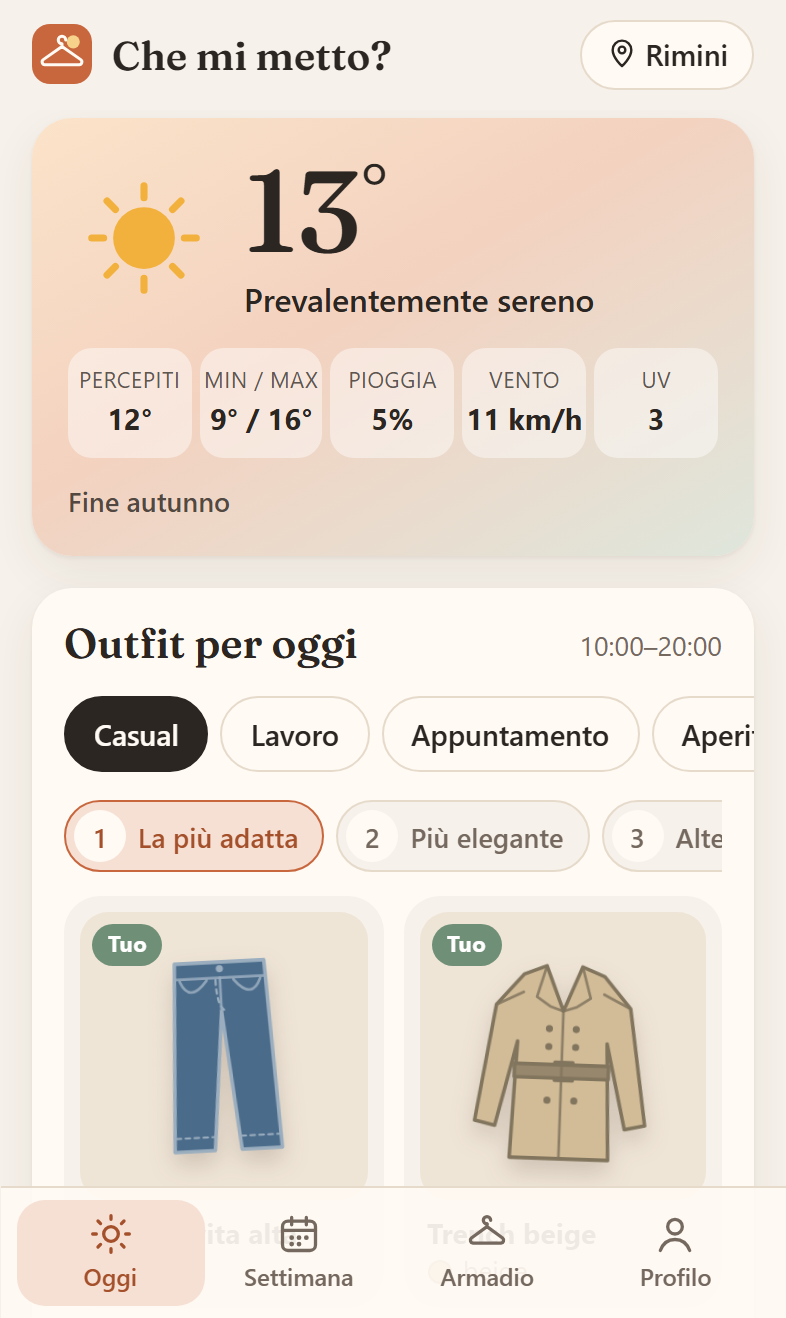
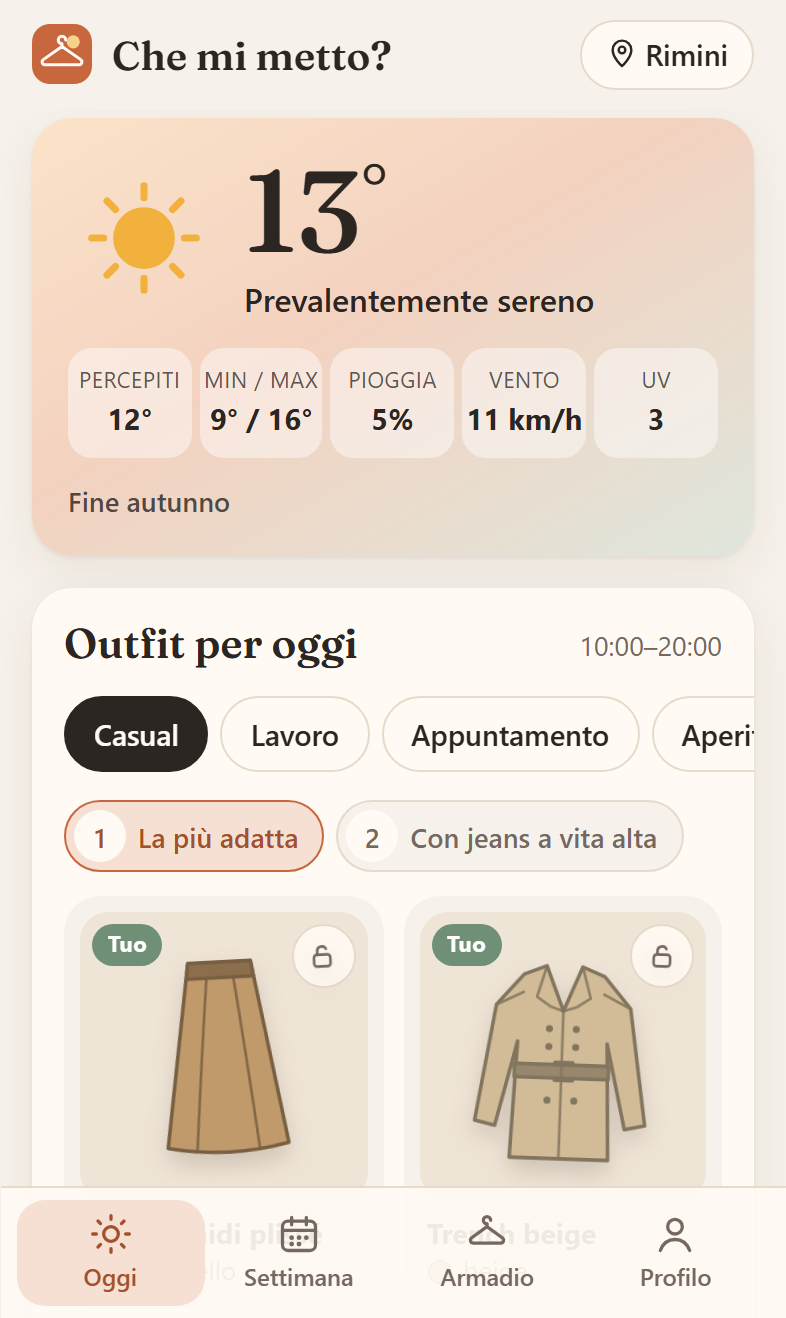
Documentazione: app commerciali studiate, nuove funzioni e anteprime

diff --git a/e2e/screenshot.spec.ts b/e2e/screenshot.spec.ts
@@ -99,6 +99,13 @@ test('anteprime per il README', async ({ page }) => {
   await mostraDallAlto(page, '.idee');
   await foto(page, '10-idee-generiche');
 
+  // Lucchetto: fisso la parte di sotto e sfoglio altre idee.
+  const sotto = page.getByRole('tabpanel').first().locator('[data-slot="sotto"], [data-slot="intero"]').first();
+  await sotto.getByRole('button', { name: /Tieni fisso/ }).click();
+  await page.getByRole('button', { name: 'Altre idee' }).click();
+  await mostraDallAlto(page, '.idee');
+  await foto(page, '11-lucchetto');
+
   await caricaBackup(page);
   // Il banner per installare su iPhone lo nascondiamo nelle anteprime.
   await page.evaluate(() => localStorage.setItem('banner-installa-chiuso', '1'));
@@ -125,10 +132,27 @@ test('anteprime per il README', async ({ page }) => {
   await foto(page, '07-nuovo-capo');
   await page.keyboard.press('Escape');
 
+  await page.getByRole('button', { name: 'Aggiunta rapida' }).click();
+  await page.getByRole('dialog', { name: 'Aggiunta rapida' }).getByRole('button', { name: 'verde salvia' }).click();
+  await foto(page, '12-aggiunta-rapida');
+  await page.keyboard.press('Escape');
+
   await page.emulateMedia({ colorScheme: 'dark' });
   await page.getByRole('link', { name: 'Oggi' }).click();
   await page.getByRole('button', { name: 'Elegante', exact: true }).click();
   await foto(page, '08-tema-scuro');
+});
+
+test('idee per uomo', async ({ page }) => {
+  await preparaPagina(page);
+  await page.goto('./');
+  await page.evaluate(() => localStorage.setItem('banner-installa-chiuso', '1'));
+  await primoAvvio(page, 'Uomo');
+  await mostraDallAlto(page, '.idee');
+  await foto(page, '13-uomo');
+  await page.getByRole('button', { name: 'Elegante', exact: true }).click();
+  await mostraDallAlto(page, '.idee');
+  await foto(page, '14-uomo-elegante');
 });
 
 test('galleria delle sagome', async ({ page }) => {

diff --git a/README.md b/README.md
@@ -44,15 +44,24 @@ iPhone, senza passare dall'App Store.
   lista di cosa mettere in borsa.
 - 🧥 **Armadio digitale**: carichi i capi uno per uno, con una foto o scegliendo solo tipo e colore. Il colore viene
   riconosciuto dalla foto. I consigli usano i tuoi vestiti, abbinano i colori e segnalano cosa manca.
-- 🎨 **Sagome disegnate a mano**: senza foto ogni capo è una sagoma SVG con il suo colore e, se vuoi, una fantasia
-  (righe, quadri, pois, fiori) con un secondo colore. Nelle idee generiche l'app aggiunge da sola un capo fantasia
-  adatto a stagione e occasione: fiori in primavera, quadri in autunno, niente fantasie in palestra.
-- 🔄 **Tre idee diverse da sfogliare** per ogni giornata e ogni impegno ("La più adatta", "Più elegante", "Con fantasia"…),
-  più il pulsante **"Altre idee"**. Le idee vengono scelte perché si somiglino il meno possibile.
+- 🎨 **Sagome disegnate a mano, diverse per donna e uomo**: t-shirt aderente od oversize, blazer sciancrato, cappotto a
+  vestaglia, jeans skinny o a zampa, gonna a tubino o a ruota, vestito a sottoveste… Ogni capo ha il suo colore e, se vuoi,
+  una fantasia (righe, quadri, pois, fiori) con un secondo colore. Nelle idee generiche l'app aggiunge da sola un capo
+  fantasia adatto a stagione e occasione: fiori in primavera, quadri in autunno, niente fantasie in palestra.
+- 🔄 **Tre idee diverse da sfogliare** per ogni giornata e ogni impegno, con un titolo che dice cosa cambia ("Con jeans a
+  zampa", "Più elegante"…), e **"Altre idee"** per continuare. Le proposte **cambiano da un giorno all'altro** e per la
+  donna includono sempre anche gonne, vestiti, top e ballerine.
+- 🔒 **Lucchetto**: fissi un capo che ti piace (o che vuoi mettere per forza) e sfogli le idee costruite intorno a lui.
+  Dall'armadio, **"Abbinalo"** apre gli outfit di oggi già con quel capo.
+- ⚡ **Aggiunta rapida**: scegli un colore e tocchi le sagome dei capi che hai: l'armadio è pronto in due minuti, senza
+  foto. Per ogni capo puoi scegliere anche il **modello** (es. jeans skinny o a zampa).
+- 🌡 **"Ieri com'era?"**: la mattina dopo ti chiede se avevi freddo o caldo e corregge da sola, di mezzo grado alla
+  volta, la temperatura su cui ragiona.
 - 👕 **Oltre 60 tipi di capi** per uomo e donna, dal gilet al parka, dalla tuta intera ai pantaloni palazzo, ognuno con un
   livello di **formalità**: nello stesso outfit non finiscono mai capi che stonano.
 - ♥ **Preferiti, "da lavare" e "Lo metto oggi"**: i preferiti escono più spesso, i capi in lavatrice no, e quello che hai
-  messo oggi non te lo ripropone domani. **Sensibilità al freddo** personale (freddoloso / nella media / caloroso).
+  messo oggi non te lo ripropone domani. **Statistiche**: quanto dell'armadio usi, i capi più messi e quelli da
+  riscoprire. **Sensibilità al freddo** personale (freddoloso / nella media / caloroso).
 - 📴 **Funziona offline** con le ultime previsioni salvate, **tema chiaro e scuro**, interfaccia pensata per il pollice.
 - 🔒 **Privacy**: nessun account e nessun server. Profilo, foto e impegni restano sul telefono; backup e ripristino con un
   file.
@@ -84,17 +93,27 @@ test.
    scelti, formalità coerente, preferito, non messo ieri; i capi da lavare sono esclusi. Senza armadio si usa una **palette
    di stagione**, con al massimo un capo **fantasia** per outfit e un secondo colore che stacca dal fondo.
 5. Il motore genera nove varianti e ne tiene **tre il più possibile diverse** (somiglianza di Jaccard tra capi e colori).
+   Il punto di partenza dipende dal giorno, quindi le proposte cambiano ogni giorno ma restano stabili nella giornata. I capi
+   fissati con il **lucchetto** restano in tutte le varianti; la **correzione personale** imparata da "Ieri com'era?"
+   sposta la temperatura su cui ragiona.
 6. Ogni consiglio arriva con il **perché**: *"Percepiti 8°: fa freddo. Pioggia probabile (80%): capi che riparano, scarpe
    chiuse e ombrello."*
 
-Prima di scriverlo ho studiato il codice di otto app open source di outfit e armadio digitale: cosa ho imparato da ciascuna,
-con le licenze, è in [docs/ISPIRAZIONI.md](docs/ISPIRAZIONI.md).
+Prima di scriverlo ho studiato il codice di otto app open source di outfit e armadio digitale e il funzionamento delle app
+commerciali più usate (Whering, Acloset, Stylebook, Cladwell, app meteo-outfit): cosa ho imparato da ciascuna, con le
+licenze, è in [docs/ISPIRAZIONI.md](docs/ISPIRAZIONI.md).
 
 <p align="center">
-  <img src="docs/screenshots/10-idee-generiche.png" width="24%" alt="Idea di outfit senza armadio, con un capo a fantasia" />
+  <img src="docs/screenshots/10-idee-generiche.png" width="24%" alt="Idea di outfit da donna senza armadio" />
+  <img src="docs/screenshots/11-lucchetto.png" width="24%" alt="Un capo fissato con il lucchetto" />
+  <img src="docs/screenshots/13-uomo.png" width="24%" alt="Idea di outfit da uomo" />
+  <img src="docs/screenshots/12-aggiunta-rapida.png" width="24%" alt="Aggiunta rapida dei capi" />
+</p>
+<p align="center">
   <img src="docs/screenshots/03-outfit-armadio.png" width="24%" alt="Outfit con capi dell'armadio e capi mancanti" />
+  <img src="docs/screenshots/14-uomo-elegante.png" width="24%" alt="Uscita elegante da uomo" />
   <img src="docs/screenshots/04-settimana.png" width="24%" alt="Previsioni della settimana" />
-  <img src="docs/screenshots/09-sagome.png" width="24%" alt="Tutte le sagome dei capi" />
+  <img src="docs/screenshots/09-sagome.png" width="24%" alt="Tutte le sagome dei capi, da donna e da uomo" />
 </p>
 
 ## Tecnologie
@@ -189,6 +208,9 @@ the day** (work, date, cocktails, formal event, gym) and, optionally, **your own
 - Each event gets an outfit computed on the forecast **for that hour**; the gym gets a "pack in your bag" list.
 - **Three swipeable, deliberately different ideas** per day and per event: nine variants are generated and the three with
   the lowest Jaccard similarity are kept. Each of 60+ garment types has a 1–5 **formality** level to keep outfits coherent.
+- Gender-specific hand-drawn silhouettes with several models per garment, daily-changing suggestions, a **lock** to keep
+  a piece fixed while browsing ideas, "style this piece" from the wardrobe, a quick-add grid, and a daily "how was
+  yesterday?" check that self-calibrates the temperature offset.
 - Wardrobe extras inspired by open-source projects (see [docs/ISPIRAZIONI.md](docs/ISPIRAZIONI.md)): favourites, "in the
   laundry" items excluded, and an "I'm wearing it today" button that tracks wear count and avoids repeats.
 - Privacy by design: no account, no server, everything stays in IndexedDB on the phone, with JSON backup/restore.

diff --git a/docs/ISPIRAZIONI.md b/docs/ISPIRAZIONI.md
@@ -16,6 +16,22 @@ spunti di design.
 | [googlarz/fashion-skill](https://github.com/googlarz/fashion-skill) | CC BY 4.0 | Regole di stile scritte per un assistente | Evitare di riproporre lo stesso outfit a breve distanza |
 | [Lazztech/Libre-Closet](https://github.com/Lazztech/Libre-Closet) | AGPL-3.0 | Armadio digitale PWA | Idee di interfaccia: più colori per capo, stato di lavaggio, archivio |
 
+## Le app commerciali
+
+Il codice di queste app non è pubblico, quindi ho studiato come funzionano dall'esterno: siti, pagine di aiuto, schede degli
+store e recensioni.
+
+| App | Come lavora | Cosa ne ho preso |
+|---|---|---|
+| [Whering](https://whering.co.uk/faq/styling-and-outfits) | "Dress Me": rimescola gli outfit e permette di **fissare un capo**; statistiche e costo per utilizzo | Il **lucchetto** e le idee da sfogliare |
+| [Acloset](https://www.acloset.app/) | Consigli da meteo e agenda; **scegli un capo e completa lui il resto** | **"Abbinalo"** dalla scheda del capo |
+| [Stylebook](https://stylebookapp.com/features.html) | Stato del capo (pulito, da lavare, prestato), statistiche "mai usati" e "più usati" | Capi **da lavare** e **statistiche** |
+| [Cladwell](https://apps.apple.com/us/app/cladwell/id1140550878) | Armadio creato scegliendo da **immagini già pronte**, una nota sul perché di ogni outfit | **Aggiunta rapida** con le sagome |
+| [Weather Outfit](https://apps.apple.com/app/id6769089874), WTWT | Dopo ogni giornata un tocco "freddo / giusto / caldo" che regola le proposte | **"Ieri com'era?"** |
+
+Il difetto più citato nelle recensioni di queste app è la **ripetitività** (e capi sbagliati per il meteo): per questo le
+idee cambiano ogni giorno, si scelgono diverse tra loro e il motore ha soglie di temperatura verificate dai test.
+
 ## Cosa è entrato nell'app
 
 - **Soglie riviste** sulla temperatura percepita (corretta di ±3° per chi è freddoloso o caloroso):
@@ -30,6 +46,10 @@ spunti di design.
   gli usi e fa variare le proposte dei due giorni seguenti.
 - **Catalogo più ricco**: gilet, parka, giacca di pelle, pantaloni cargo e di velluto, pantaloni palazzo, tuta intera, sandali
   col tacco, cravatta, cappello di paglia.
+
+- **Sagome diverse per donna e uomo** con più modelli per capo, così le idee non hanno tutte la stessa faccia.
+- **Lucchetto**, **"Abbinalo"**, **aggiunta rapida**, **"Ieri com'era?"** e **statistiche** dalle app commerciali qui sopra,
+  rifatti in versione gratuita e tutta sul telefono.
 
 ## Cosa ho aggiunto io
 
